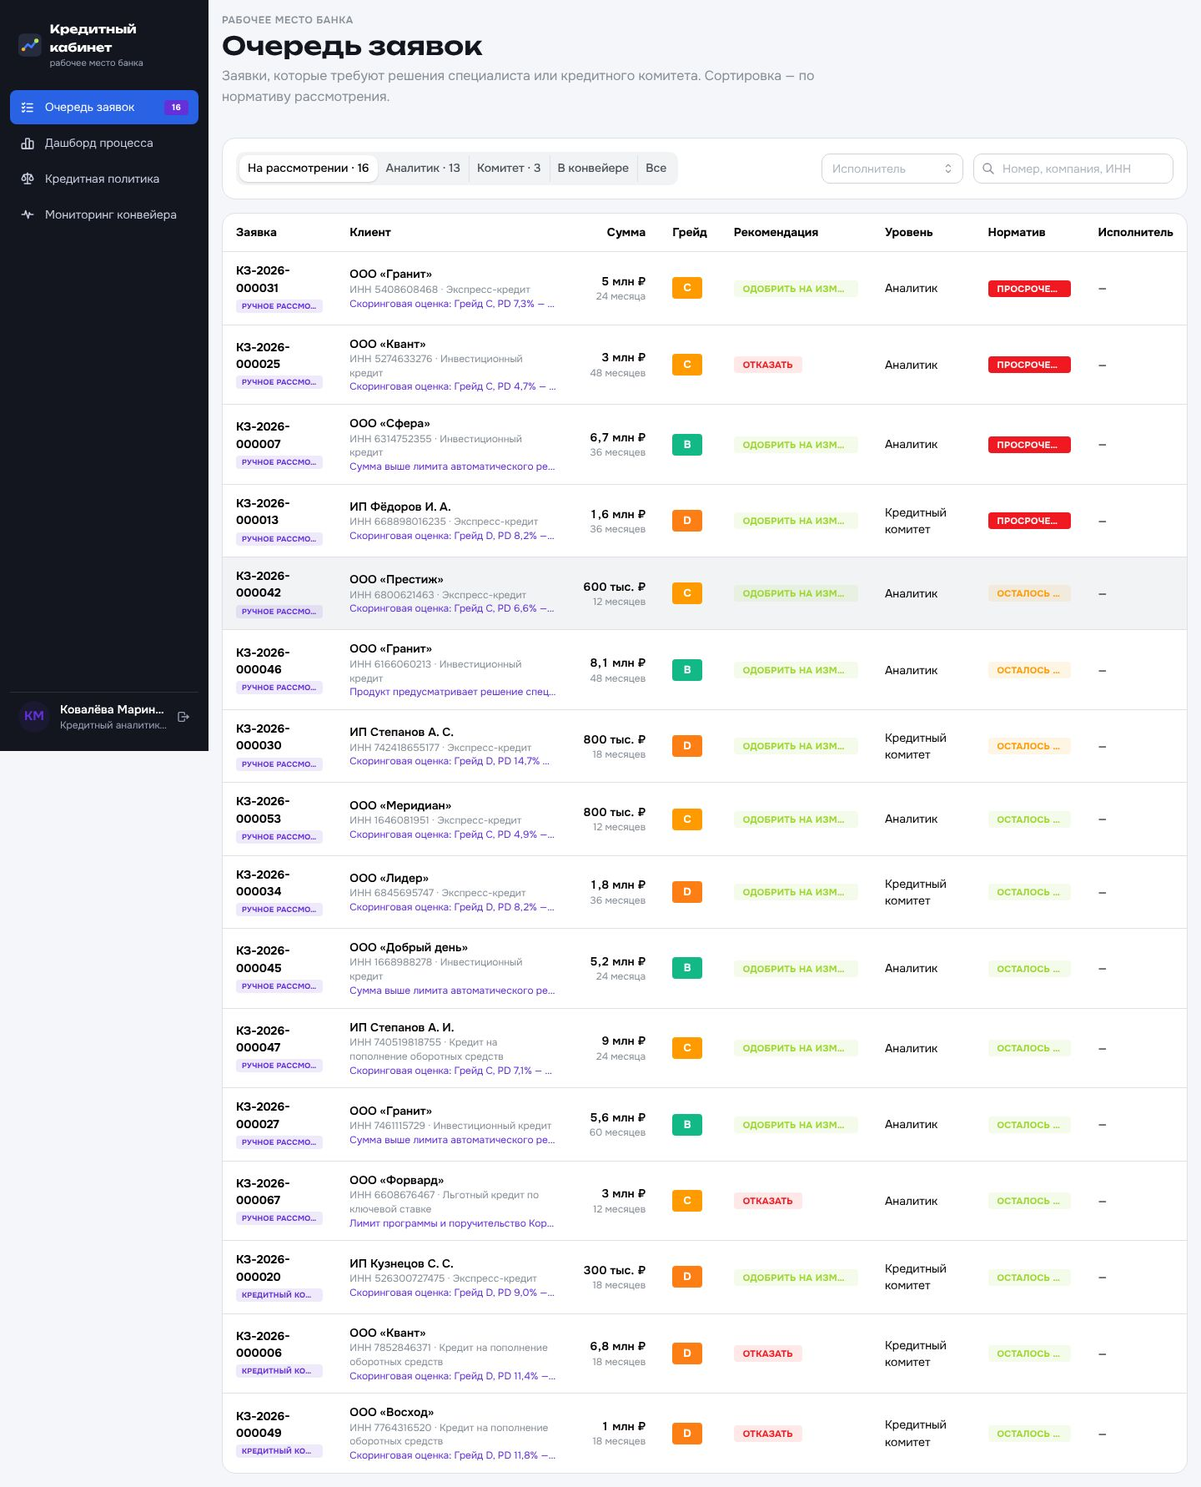
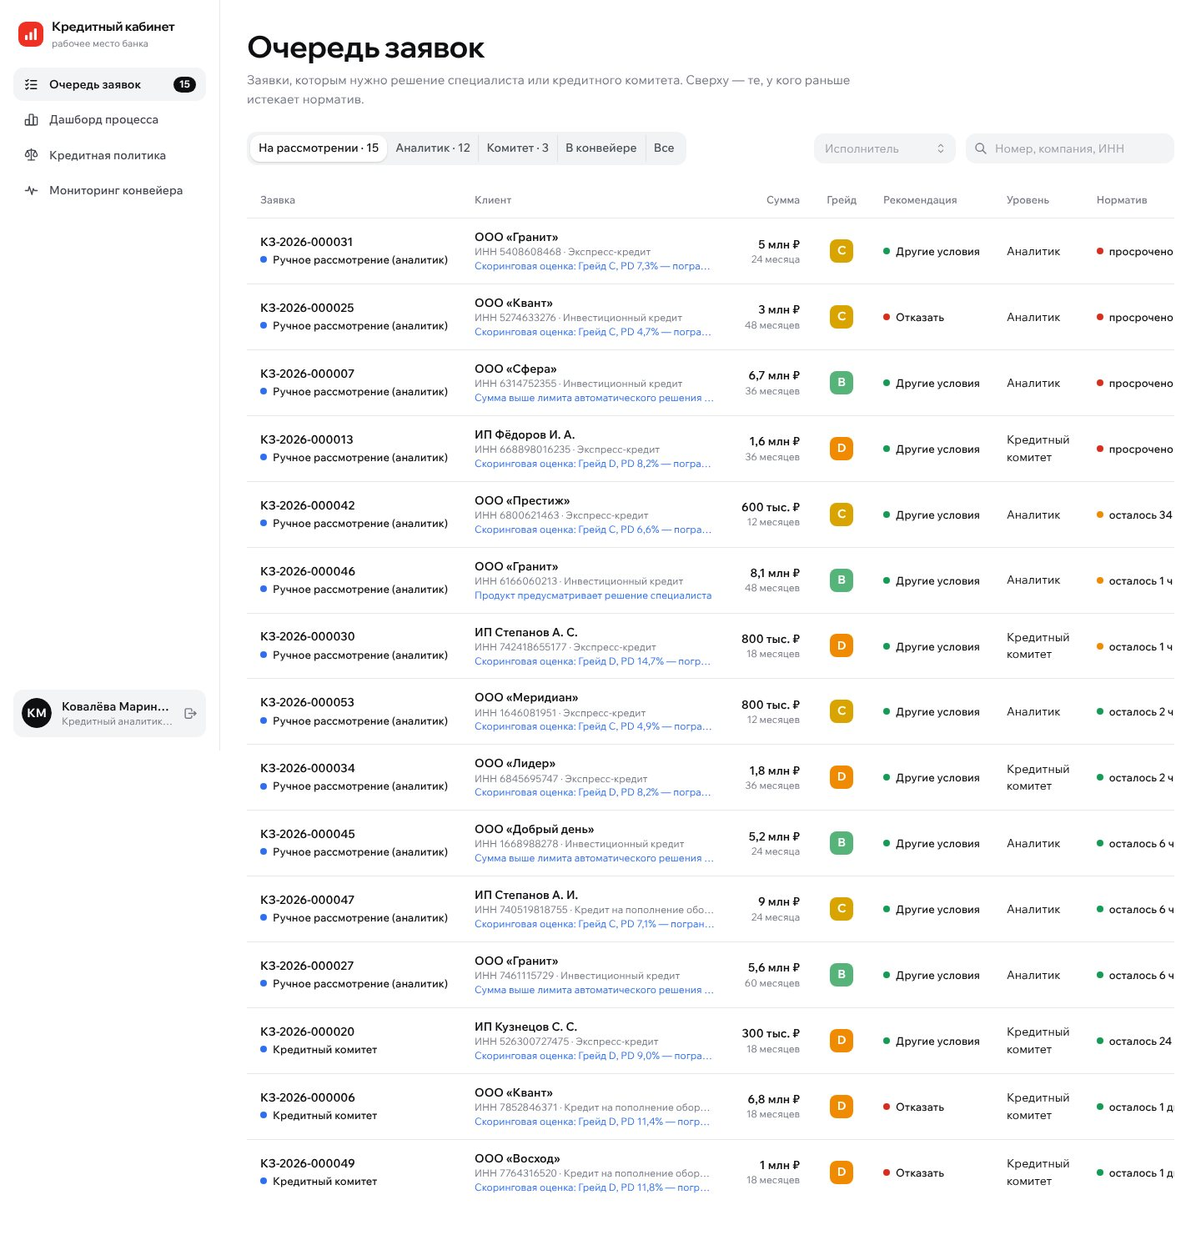
Документация: исследование интерфейсов банков, новые снимки экранов, сценарии
- docs/08-demo/ux-benchmark.md: что посмотрели у Альфа-Банка, Сбера, Т-Банка, Точки и Модульбанка,
  что взяли и что сознательно не делали, визуальный язык, источники
- README, сценарий показа и описание тестов — под новую воронку; снимки экранов со свежего стенда
- THIRD_PARTY_NOTICES: шрифт Wix Madefor вместо Onest и Unbounded

Claude-Session: https://claude.ai/code/session_01BJDki8PHdztz3dDZVTZi3D

diff --git a/scripts/third_party_notices.py b/scripts/third_party_notices.py
@@ -98,8 +98,8 @@ def main() -> None:
         "",
         "| Компонент | Лицензия |",
         "|---|---|",
-        "| Onest (`@fontsource/onest`) | SIL Open Font License 1.1 |",
-        "| Unbounded (`@fontsource/unbounded`) | SIL Open Font License 1.1 |",
+        "| Wix Madefor Text (`@fontsource/wix-madefor-text`) | SIL Open Font License 1.1 |",
+        "| Wix Madefor Display (`@fontsource/wix-madefor-display`) | SIL Open Font License 1.1 |",
         "| Tabler Icons (`@tabler/icons-react`) | MIT |",
         "| DejaVu Sans (только для генерации тестовых PDF) | Bitstream Vera / DejaVu License |",
         "",

diff --git a/docs/08-demo/ux-benchmark.md b/docs/08-demo/ux-benchmark.md
@@ -1,0 +1,64 @@
+# Интерфейс: что посмотрели у банков и что взяли
+
+Перед переделкой интерфейса мы разобрали, как кредитуют малый бизнес онлайн Альфа-Банк, Сбер, Т-Банк, Точка и
+Модульбанк. Задача — сократить путь до денег и не изобретать паттерны, к которым предприниматели уже привыкли.
+
+## Что общего у банков
+
+| Паттерн | Где видели |
+|---|---|
+| **Лимит до заявки.** Банк заранее считает, сколько можно получить, — без документов, за минуты; расчёт действует ограниченное время | Сбер — «кредитный потенциал»: суммы по целям, с залогом и без, действует 30 дней; Модульбанк — лимит пересчитывается каждый месяц по оборотам |
+| **Короткий вход.** ИНН, телефон и имя — остальное банк подтягивает сам | Точка; Т-Банк — клиенты банка подают заявку из приложения без пакета документов |
+| **Обороты вместо бумаг.** Выписка за 12 месяцев файлом или автоматически | Точка — выписка .txt или выгрузка из другого банка; Модульбанк — данные онлайн-касс |
+| **Одна заявка — несколько продуктов, один лимит** | Точка — решение по всем видам финансирования по одной заявке; Альфа — единая заявка и лимит, новые продукты без повторных проверок |
+| **Цифровой трекинг статуса** от заявки до выдачи и виджет «потенциал, статус, остаток лимита» | Альфа — «умный кредитный виджет» и кабинет по сделке |
+| **Роли.** Бухгалтер готовит заявку, руководитель подписывает | Альфа — инициатор может передать сбор документов сотруднику |
+| **Меньше шагов.** | Альфа сообщает, что сократила число шагов подачи заявки вдвое |
+
+## Что сделали у себя
+
+| Было | Стало |
+|---|---|
+| Предодобренный лимит — тёмная карточка и переход в подбор | **Лимит на главной**: сумма выбирается ползунком, платёж пересчитывается сразу, кнопка «Получить» создаёт заявку с готовыми данными |
+| Подбор: шесть карточек продуктов, клиент сравнивает сам | **Шаг «Расчёт»**: цель, сумма, срок → система сама выбирает продукт и показывает платёж, ставку и срок решения; остальные варианты — списком рядом |
+| Анкета из 6 шагов: Условия, Компания, Финансы, Обеспечение, Документы, Отправка | **Шаг «Данные»**: одна страница. Всё, что банк уже знает (ЕГРЮЛ, профиль, обороты), свёрнуто в строку-сводку с «Изменить»; раскрыто только то, что нужно заполнить. Залог и документы появляются, только когда нужны |
+| Подпись — отдельный шаг анкеты | **Шаг «Подпись»** — окно поверх страницы: документы, согласия, пароль, затем экран «Заявка отправлена» |
+| Шесть плиток маршрута | **Трекер** как у доставки и **живая проверка**: пока работает конвейер, пункты «анкета → ЕГРЮЛ, ФНС, БКИ → оценка → решение» по очереди получают галочку |
+
+Итог: **6 шагов анкеты → 3 шага** (Расчёт → Данные → Подпись). У клиента банка с одобренным лимитом шаг «Данные»
+превращается в «проверьте и подпишите»: заполнять нечего.
+
+## Что сознательно не делали
+
+- **Одна заявка на несколько продуктов** — нужен общий лимит и решение по набору продуктов; это изменение движка
+  решений, а не интерфейса.
+- **Автовыгрузка выписки из другого банка** — нужны договорённости и интеграции с банками; оставили загрузку файла 1С/CSV
+  с автоматическим разбором.
+- **КЭП и Госключ** — в прототипе простая электронная подпись с хэшем документа; место для КЭП предусмотрено в архитектуре.
+- **Отдельное мобильное приложение** — адаптивная веб-версия с нижним меню и закреплённой кнопкой действия.
+
+## Визуальный язык
+
+- Белый фон, серые плашки без рамок и теней, чёрный текст, крупные табличные цифры, знак ₽ — меньше и светлее суммы.
+- Красный — только главное действие экрана («Получить», «Продолжить», «Подписать») и фирменные акценты; чёрный —
+  обычные действия; серые плашки — второстепенные.
+- Статусы — точка и текст вместо цветных «пилюль»: оранжевый — ход за клиентом, синий — работает банк или система,
+  зелёный — готово, красный — отказ.
+- Шрифт — Wix Madefor Text и Display (лицензия OFL 1.1), подключён в сборке, без внешних CDN.
+- Движение объясняет, что происходит: суммы «докручиваются» к новому значению, трекер закрашивается по этапам,
+  галочки проверок рисуются по мере работы конвейера, решение банка появляется с галочкой, после подписи — экран
+  подтверждения, колокольчик покачивается при новом уведомлении, вместо «Загружаем…» — мерцающие заготовки блоков.
+  При системной настройке «уменьшить движение» анимации отключаются.
+
+## Источники
+
+- Альфа-Банк. [Цифровой корпоративный кредит: трансформация кредитования](https://nbp.nbj.ru/files/nbp2025/alfa-bank-transformaciya-kreditovaniya_c.pdf) (НБЖ, 2025)
+- Альфа-Банк. [Быстрый бизнес-кредит — условия](https://ru.myfin.by/bank/alfabank/kredity-dlya-biznesa/bystryj-biznes-kredit) (myfin.by)
+- Точка. [Кредит без залога](https://tochka.com/credits/loan-no_collateral/), [Кредит для бизнеса](https://tochka.com/credits/loan/)
+- Сбер. [ИП могут рассчитать кредитный потенциал](https://sberbusiness.live/news/individualnye-predprinimateli-mogut-rasschitat-kreditnyi-potentsial-v-sberbank-onlain), [кейс сервиса «Кредитный потенциал»](https://workspace.ru/cases/servis-kreditnyy-potencial/), [инструмент расчёта лимита](https://sber.pro/publication/sberbank-sozdal-instrument-dlia-raschiota-limita-kreditovaniia-predpriiatii-malogo-biznesa/)
+- Т-Банк. [Кредиты для бизнеса](https://brobank.ru/banki/tbank/credits/dlya-biznesa/) (brobank.ru)
+- Модульбанк. [Кредит для бизнеса](https://brobank.ru/credit-modulbank-dlya-biznesa/) (brobank.ru), [кредит по данным онлайн-касс](https://www.retail.ru/rbc/pressreleases/ooo-takskom-kredit-dlya-malogo-biznesa-za-10-sekund-v-modulbanke-dlya-klientov-ofd-takskom/)
+- Сравни. [Как UX-лаборатория развивает исследования](https://habr.com/ru/post/687030) (Хабр)
+
+Условия и формулировки — по состоянию страниц на октябрь 2026 года; сайты банков часть страниц роботам не отдают,
+поэтому для них использованы агрегаторы.

diff --git a/docs/08-demo/demo-script.md b/docs/08-demo/demo-script.md
@@ -8,11 +8,11 @@
 | Время | Что показываем | Что говорим |
 |---|---|---|
 | 0:00 | Страница входа | Две роли — клиент и банк — работают с одной заявкой и одним статусом. Все данные синтетические, внешние системы — симулятор |
-| 0:40 | `anna@kofe.test`: главная | Предодобренный лимит по оборотам — без документов. Справа лента под кофейню в Татарстане; у каждой карточки «почему вы это видите» |
-| 1:30 | «Подобрать финансирование»: цель «Купить оборудование», 1,5 млн ₽, 24 мес. | Подбор по задаче, а не витрина: почему подходит, что помешает, платёж ещё до заявки |
-| 2:30 | «Оформить заявку» → шаги анкеты | Реквизиты, руководитель, выручка уже заполнены — у каждого поля источник (ЕГРЮЛ, обороты в банке). Документы не нужны — чек-лист динамический |
-| 3:30 | «Подписать и отправить»: согласия, пароль | Простая электронная подпись: хэш документа, время, IP. Дальше не обновляем страницу |
-| 4:00 | Маршрут из 6 шагов | Статус меняется на глазах: проверка → запрос сведений → оценка. Цвет шага — чей ход |
+| 0:40 | `anna@kofe.test`: главная | Одобренный заранее лимит по оборотам — без документов; сумму можно выбрать ползунком прямо здесь. Ниже — подборка под кофейню в Татарстане, в карточке «почему вы это видите» |
+| 1:30 | «Новая заявка»: цель «Купить оборудование», 1,5 млн ₽, 24 мес. | Шаг 1 из 3. Подбор по задаче, а не витрина: продукт выбран автоматически, платёж ещё до заявки, альтернативы рядом |
+| 2:30 | «Продолжить» → шаг «Данные» | Было 6 шагов анкеты — стало 3. Всё, что банк знает, свёрнуто в строки-сводки с источником (ЕГРЮЛ, обороты в банке); документы не нужны — чек-лист динамический |
+| 3:30 | «Подписать и отправить»: согласия, пароль | Простая электронная подпись: хэш документа, время, IP. Экран «Заявка отправлена», дальше не обновляем страницу |
+| 4:00 | Трекер и «Что происходит сейчас» | Пункты проверки получают галочки на глазах: анкета → ЕГРЮЛ, ФНС, БКИ → оценка → решение. Цвет отрезка трекера — чей ход |
 | 4:30 | Предложение | 1,5 млн ₽, 24 мес., 21,5%, платёж ≈ 77 447 ₽, переплата, эффективная ставка, график. Принимаем, смотрим договор, подписываем → «Деньги на счёте», кредит в разделе «Кредиты» |
 | 5:30 | `igor@motor.test`: 3 млн ₽ на 12 мес. | Контрпредложение вместо отказа: банк объясняет, что изменено и почему (DSCR) |
 | 6:15 | `ivan@kozlov-shop.test`: 1 млн ₽ | Отказ, но с причинами простыми словами и планом действий. Главная: лента перестроилась под ситуацию — налоги, кредитная история |

diff --git a/THIRD_PARTY_NOTICES.md b/THIRD_PARTY_NOTICES.md
@@ -44,8 +44,8 @@
 
 | Компонент | Лицензия |
 |---|---|
-| Onest (`@fontsource/onest`) | SIL Open Font License 1.1 |
-| Unbounded (`@fontsource/unbounded`) | SIL Open Font License 1.1 |
+| Wix Madefor Text (`@fontsource/wix-madefor-text`) | SIL Open Font License 1.1 |
+| Wix Madefor Display (`@fontsource/wix-madefor-display`) | SIL Open Font License 1.1 |
 | Tabler Icons (`@tabler/icons-react`) | MIT |
 | DejaVu Sans (только для генерации тестовых PDF) | Bitstream Vera / DejaVu License |
 
@@ -167,8 +167,8 @@
 | @floating-ui/react | 0.26.28 | MIT | приложение |
 | @floating-ui/react-dom | 2.1.9 | MIT | приложение |
 | @floating-ui/utils | 0.2.12 | MIT | приложение |
-| @fontsource/onest | 5.3.1 | OFL-1.1 | приложение |
-| @fontsource/unbounded | 5.3.0 | OFL-1.1 | приложение |
+| @fontsource/wix-madefor-display | 5.3.0 | OFL-1.1 | приложение |
+| @fontsource/wix-madefor-text | 5.3.0 | OFL-1.1 | приложение |
 | @jridgewell/gen-mapping | 0.3.13 | MIT | сборка |
 | @jridgewell/remapping | 2.3.5 | MIT | сборка |
 | @jridgewell/resolve-uri | 3.1.2 | MIT | сборка |
